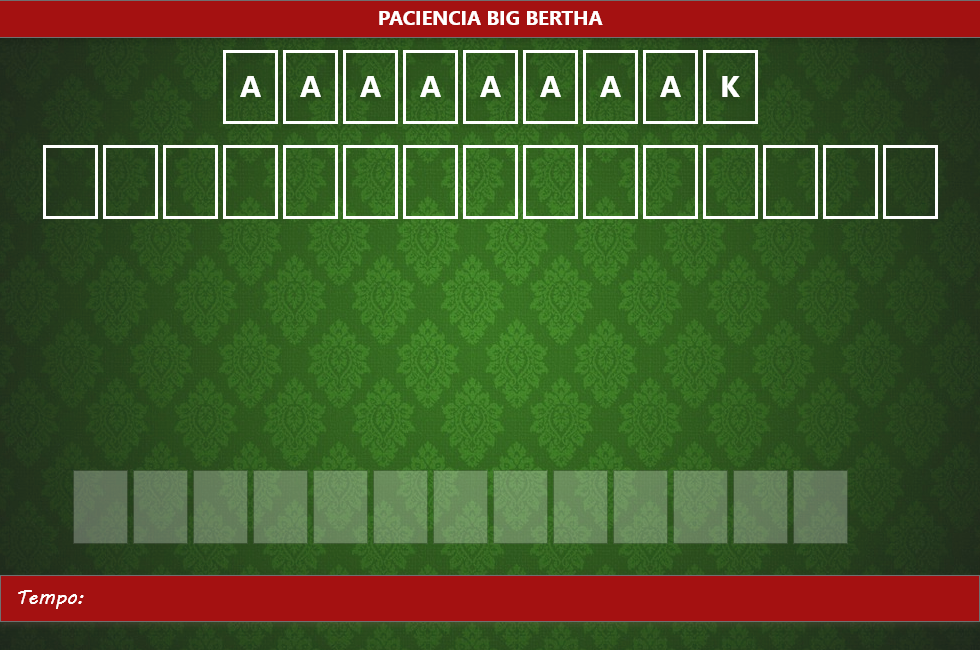
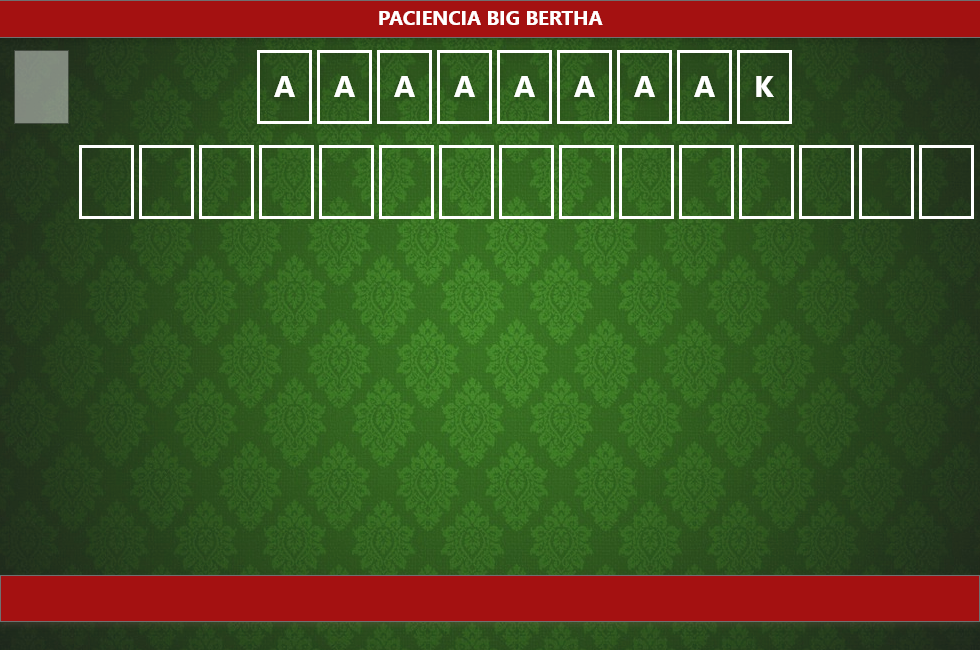
Fix bugs

diff --git a/src/main/java/com/uefs/br/jogopaciencia/main/BigBertha.java b/src/main/java/com/uefs/br/jogopaciencia/main/BigBertha.java
@@ -23,6 +23,7 @@ import java.awt.event.ActionEvent;
 import java.awt.event.ActionListener;
 
 import javax.swing.JLabel;
+import javax.swing.JOptionPane;
 import javax.swing.SwingConstants;
 import java.awt.Color;
 
@@ -109,7 +110,7 @@ public class BigBertha extends JFrame {
 	}
 
 	private void instanciarEstoque(JogoStrategy jogo) throws Exception {
-		Pilha2D panel = new Pilha2D(73, 470, 5, 0, sprite);
+		Pilha2D panel = new Pilha2D(14, 50, 0, 25, sprite);
 		panel.setPilha(jogo.getPilha(PacienciaBigBertha.ESTOQUE));
 		contentPane.add(panel);
 		adicionarEventoSelecao(panel);
@@ -118,7 +119,7 @@ public class BigBertha extends JFrame {
 	}
 
 	private void instanciarFundacoes(JogoStrategy jogo) throws Exception {
-		int x = 223;
+		int x = 257;
 		int cursor = 1;
 		for(int i = PacienciaBigBertha.FUNDACAO_1; i <= PacienciaBigBertha.FUNDACAO_9_REIS; i++) {
 			Pilha2D panel = new Pilha2D(x, 50, 0, 0, sprite);
@@ -131,7 +132,7 @@ public class BigBertha extends JFrame {
 	}
 
 	private void instanciarFileiras(JogoStrategy jogo) throws Exception {
-		int x = 43;
+		int x = 79;
 		int cursor = 10;
 		for(int i = PacienciaBigBertha.FILEIRA_1; i <= PacienciaBigBertha.FILEIRA_14; i++) {
 			Pilha2D panel = new Pilha2D(x, 145, 0, 25, sprite);
@@ -154,9 +155,6 @@ public class BigBertha extends JFrame {
 						int pilhaOrigem = proximoMovimento.getPilhaOrigem();
 						int quantidade = proximoMovimento.getQuantidade();
 						int pilhaDestino = proximoMovimento.getPilhaDestino();
-						
-						System.out.println("Pilha origem: " + proximoMovimento.getPilhaOrigem() + " Qtd: " + proximoMovimento.getQuantidade() + " Pilha destino: " + proximoMovimento.getPilhaDestino());
-
 
 						proximoMovimento.resetar();
 						
@@ -213,6 +211,8 @@ public class BigBertha extends JFrame {
 			};
 			new javax.swing.Timer(delay, taskPerformer).start();
 		}
+		else 
+			JOptionPane.showMessageDialog(null,mensagem);  
 
 	}
 }

diff --git a/src/main/java/com/uefs/br/jogopaciencia/gui/Pilha2D.java b/src/main/java/com/uefs/br/jogopaciencia/gui/Pilha2D.java
@@ -106,6 +106,8 @@ public class Pilha2D extends JPanel {
 					cliqueCarta(painelCarta, carta);
 				}
 			});
+			
+			
 
 			if(espacamentoHorizontal == 0)
 				painelCarta.setBounds(x, y, Constantes.LARGURA_CARTA, eUltima ? (Constantes.ALTURA_CARTA) : espacamentoVertical);
@@ -114,6 +116,8 @@ public class Pilha2D extends JPanel {
 
 			this.add(painelCarta);
 			this.paineisDeCartas.add(painelCarta);
+			
+			
 
 			x = espacamentoHorizontal > 0 ? (x + espacamentoHorizontal + Constantes.LARGURA_CARTA) : x;
 			y = espacamentoVertical > 0 ? (y + espacamentoVertical) : y;

diff --git a/src/main/java/com/uefs/br/jogopaciencia/models/Pilha.java b/src/main/java/com/uefs/br/jogopaciencia/models/Pilha.java
@@ -159,7 +159,13 @@ public class Pilha {
 			return;
 		}
 		
-		if(!regraAdicao.permitir(cartas.peek(), subpilha.get(0)))
+		NoCarta ultimaCarta = null;
+		
+		if(!cartas.isEmpty())
+			ultimaCarta = cartas.peek();
+
+
+		if(!regraAdicao.permitir(ultimaCarta, subpilha.get(0)))
 			throw new Exception("Movimento inválido. Insercao não permitida!!!");
 		
 		int indiceDaCarta = 0;

diff --git a/src/main/java/com/uefs/br/jogopaciencia/models/PacienciaBigBertha.java b/src/main/java/com/uefs/br/jogopaciencia/models/PacienciaBigBertha.java
@@ -81,7 +81,6 @@ public class PacienciaBigBertha extends JogoStrategy {
 		for(int i = 0; i < 15; i++) {
 			Pilha pilhaFileira = new Pilha(FILEIRA_1 + i, "FILEIRA");
 
-
 			for(int j = 0; j < 6; j++)
 				pilhaFileira.adicionarCarta(baralho.retiraCartaTopo());
 
